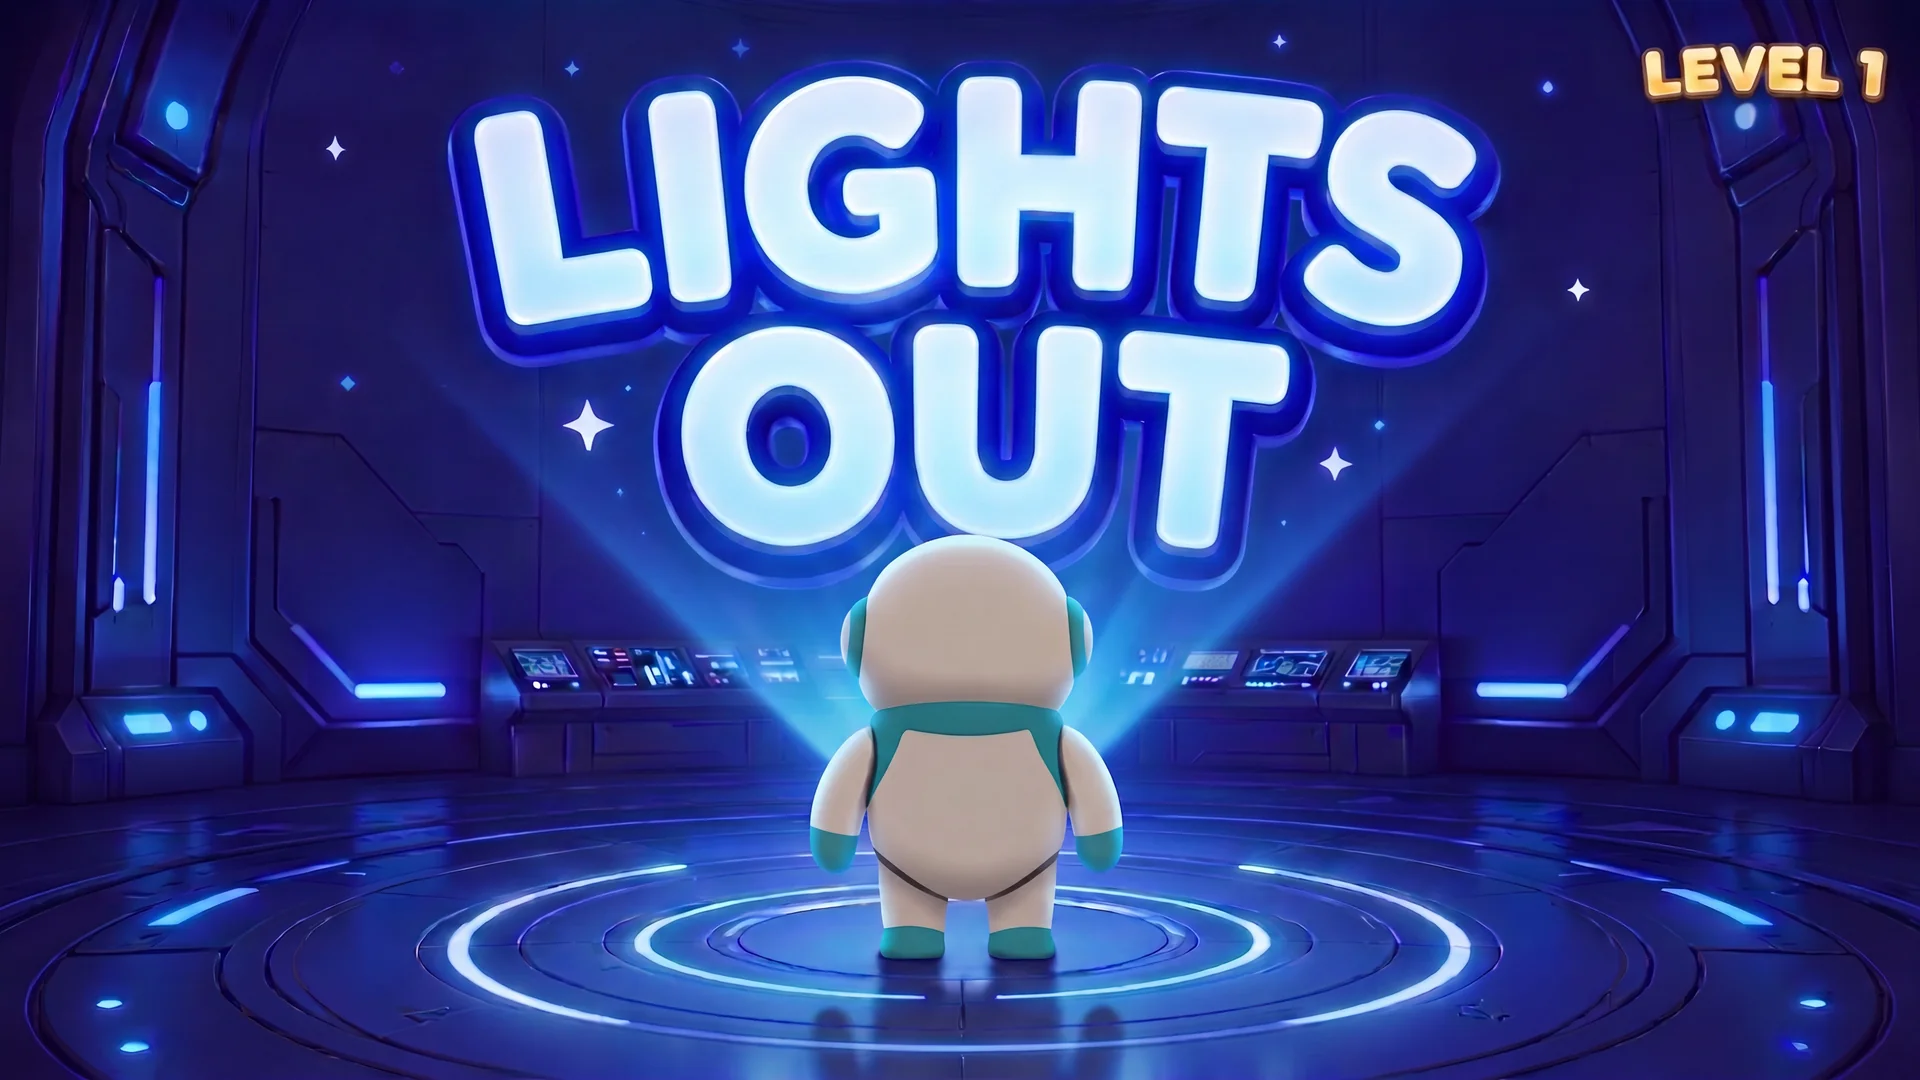
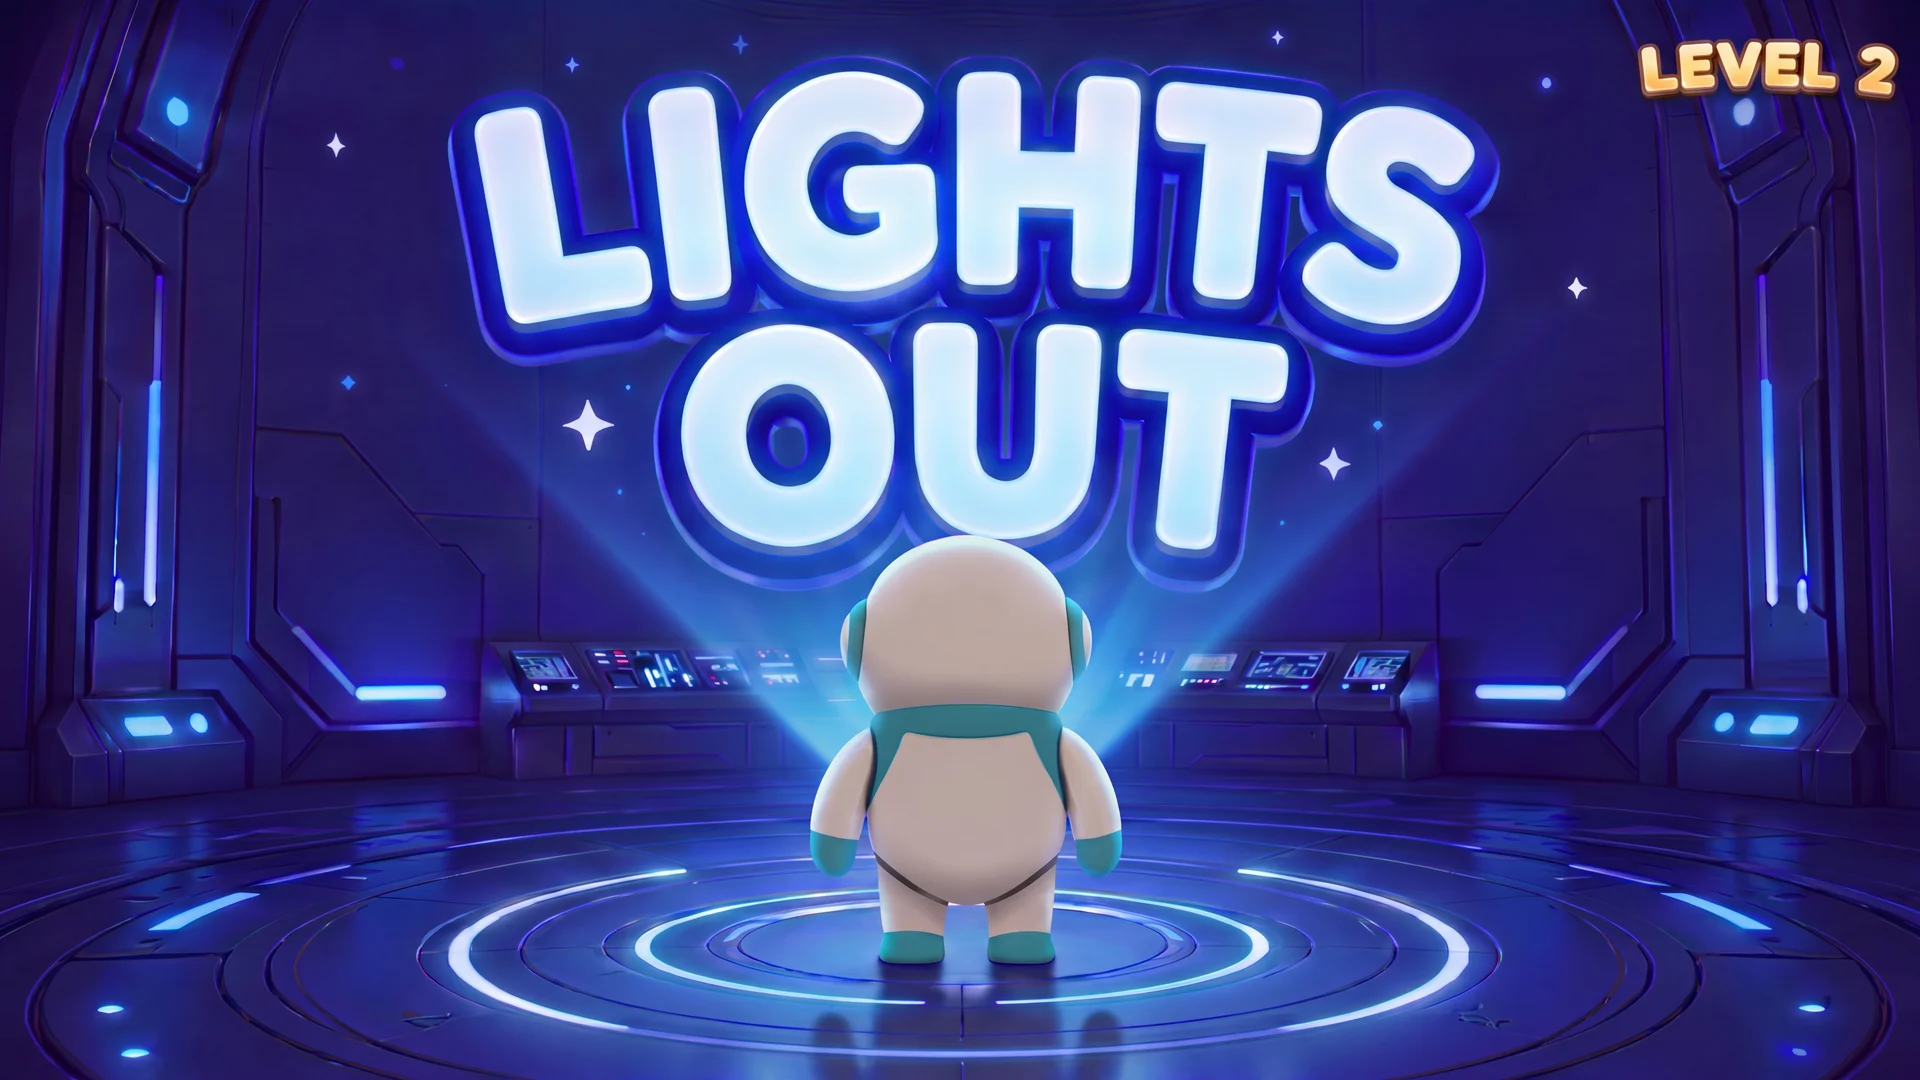
correct switch audio and tittle page

diff --git a/index.html b/index.html
@@ -1132,16 +1132,10 @@
   const voiceUhOh       = new Audio('audio/Uh-oh! Try again!.ogg');
   const voiceHint       = new Audio("audio/Check the pattern again.ogg");
 
-  /* ── Spoken-number clips (only the numbers we have .ogg files for) ── */
-  const NUMBER_VOICES = {
-    3:  new Audio('audio/3.ogg'),
-    4:  new Audio('audio/4.ogg'),
-    5:  new Audio('audio/5.ogg'),
-    7:  new Audio('audio/7.ogg'),
-    10: new Audio('audio/10.ogg'),
-    11: new Audio('audio/11.ogg'),
-    13: new Audio('audio/13.ogg'),
-  };
+  /* ── Spoken-number clips (all the numbers we have audio/<n>.ogg files for) ── */
+  const NUMBER_VOICE_FILES = [1, 2, 3, 4, 5, 6, 7, 8, 9, 10, 11, 12, 13, 14, 15, 16, 18, 20, 21, 24, 25, 30, 35];
+  const NUMBER_VOICES = {};
+  NUMBER_VOICE_FILES.forEach(n => { NUMBER_VOICES[n] = new Audio('audio/' + n + '.ogg'); });
 
   /* speak a number when the player places it (silently skips numbers with no clip) */
   function playNumberVoice(n) {
@@ -1346,6 +1340,40 @@
     g.gain.exponentialRampToValueAtTime(0.0001, t0 + 0.2);
     o.connect(g); g.connect(masterGain());
     o.start(t0); o.stop(t0 + 0.22);
+  }
+
+  /* switch flips ON — a mechanical toggle for a correct pick: clunk + upward flip + electric spark */
+  function sfxSwitchOn() {
+    const ctx = ac(), t0 = ctx.currentTime;
+    /* 1 — mechanical "clunk" (short filtered noise burst, the toggle snapping) */
+    const buf = ctx.createBuffer(1, ctx.sampleRate * 0.045, ctx.sampleRate);
+    const d = buf.getChannelData(0);
+    for (let k = 0; k < d.length; k++) d[k] = (Math.random() * 2 - 1) * Math.exp(-k / (ctx.sampleRate * 0.005));
+    const src = ctx.createBufferSource(), bp = ctx.createBiquadFilter(), cg = ctx.createGain();
+    src.buffer = buf; bp.type = 'bandpass'; bp.frequency.value = 1800; bp.Q.value = 0.9;
+    cg.gain.value = 0.5;
+    src.connect(bp); bp.connect(cg); cg.connect(masterGain());
+    src.start(t0);
+    /* 2 — upward "flip to ON" tone (square osc snapping up) */
+    const o = ctx.createOscillator(), g = ctx.createGain();
+    o.type = 'square';
+    o.frequency.setValueAtTime(300, t0);
+    o.frequency.exponentialRampToValueAtTime(760, t0 + 0.05);
+    g.gain.setValueAtTime(0.0001, t0);
+    g.gain.exponentialRampToValueAtTime(0.085, t0 + 0.015);
+    g.gain.exponentialRampToValueAtTime(0.0001, t0 + 0.16);
+    o.connect(g); g.connect(masterGain());
+    o.start(t0); o.stop(t0 + 0.18);
+    /* 3 — bright electric spark tail (the "light" coming on) */
+    const o2 = ctx.createOscillator(), g2 = ctx.createGain();
+    o2.type = 'triangle';
+    o2.frequency.setValueAtTime(1500, t0 + 0.04);
+    o2.frequency.exponentialRampToValueAtTime(2700, t0 + 0.12);
+    g2.gain.setValueAtTime(0.0001, t0 + 0.04);
+    g2.gain.exponentialRampToValueAtTime(0.05, t0 + 0.07);
+    g2.gain.exponentialRampToValueAtTime(0.0001, t0 + 0.2);
+    o2.connect(g2); g2.connect(masterGain());
+    o2.start(t0 + 0.04); o2.stop(t0 + 0.22);
   }
 
   /* bot bar slides open — rising sweep + a soft confirm chime */
@@ -2117,6 +2145,7 @@
     const correct = getCorrect(cfg, grid[currentRow].length);
 
     if (val === correct) {
+      sfxSwitchOn();          /* the switch flips ON for a correct pick */
       playNumberVoice(val);   /* speak the number if a voice clip exists for it */
       const pts   = showHint ? 5 : wrongCount === 0 ? 15 : 10;
       wrongCount  = 0; wrongAnswer = null; showHint = false;

diff --git a/PROGRESS.md b/PROGRESS.md
@@ -102,15 +102,17 @@ panel → option tiles pop in. Each beat has its own sound.
 - **No tutorial:** every level (including the first) just prompts "Tap the correct
   switch." then a randomized win line. The old Level-1 guided narration
   ("let us read the pattern together", option-highlight, `readPatternLvl1`) was removed.
-- On a correct tap the placed number is spoken if an `audio/<n>.ogg` clip exists
-  (`playNumberVoice` — clips present for 3, 4, 5, 7, 10, 11, 13; others silently skip).
+- On a correct tap the placed number is **spoken** (`playNumberVoice` → `audio/<n>.ogg`).
+  Clips are present for 1–16, 18, 20, 21, 24, 25, 30, 35 (`NUMBER_VOICE_FILES`), which
+  covers every correct answer across all four levels; any unmapped number silently skips.
 
 ### Audio (all synthesized via Web Audio API; master gain + compressor)
 hover, click, correct, wrong, row-complete, entrance pops, panel power-on, options
 deploy whoosh, power-down/up (transition), bot-bar open/close, switch-appear,
-talk blips, the **current-flow surge**, and **menu-button hover/press** (PLAY and Play
-Again now click like the switch/option tiles). Optional number-voice `.ogg` files are
-referenced and degrade gracefully if missing.
+**switch-flip-ON for a correct pick (`sfxSwitchOn` — clunk + upward toggle + electric
+spark)**, talk blips, the **current-flow surge**, and **menu-button hover/press** (PLAY
+and Play Again click like the tiles). Optional number-voice `.ogg` files are referenced
+and degrade gracefully if missing.
 
 ---
 